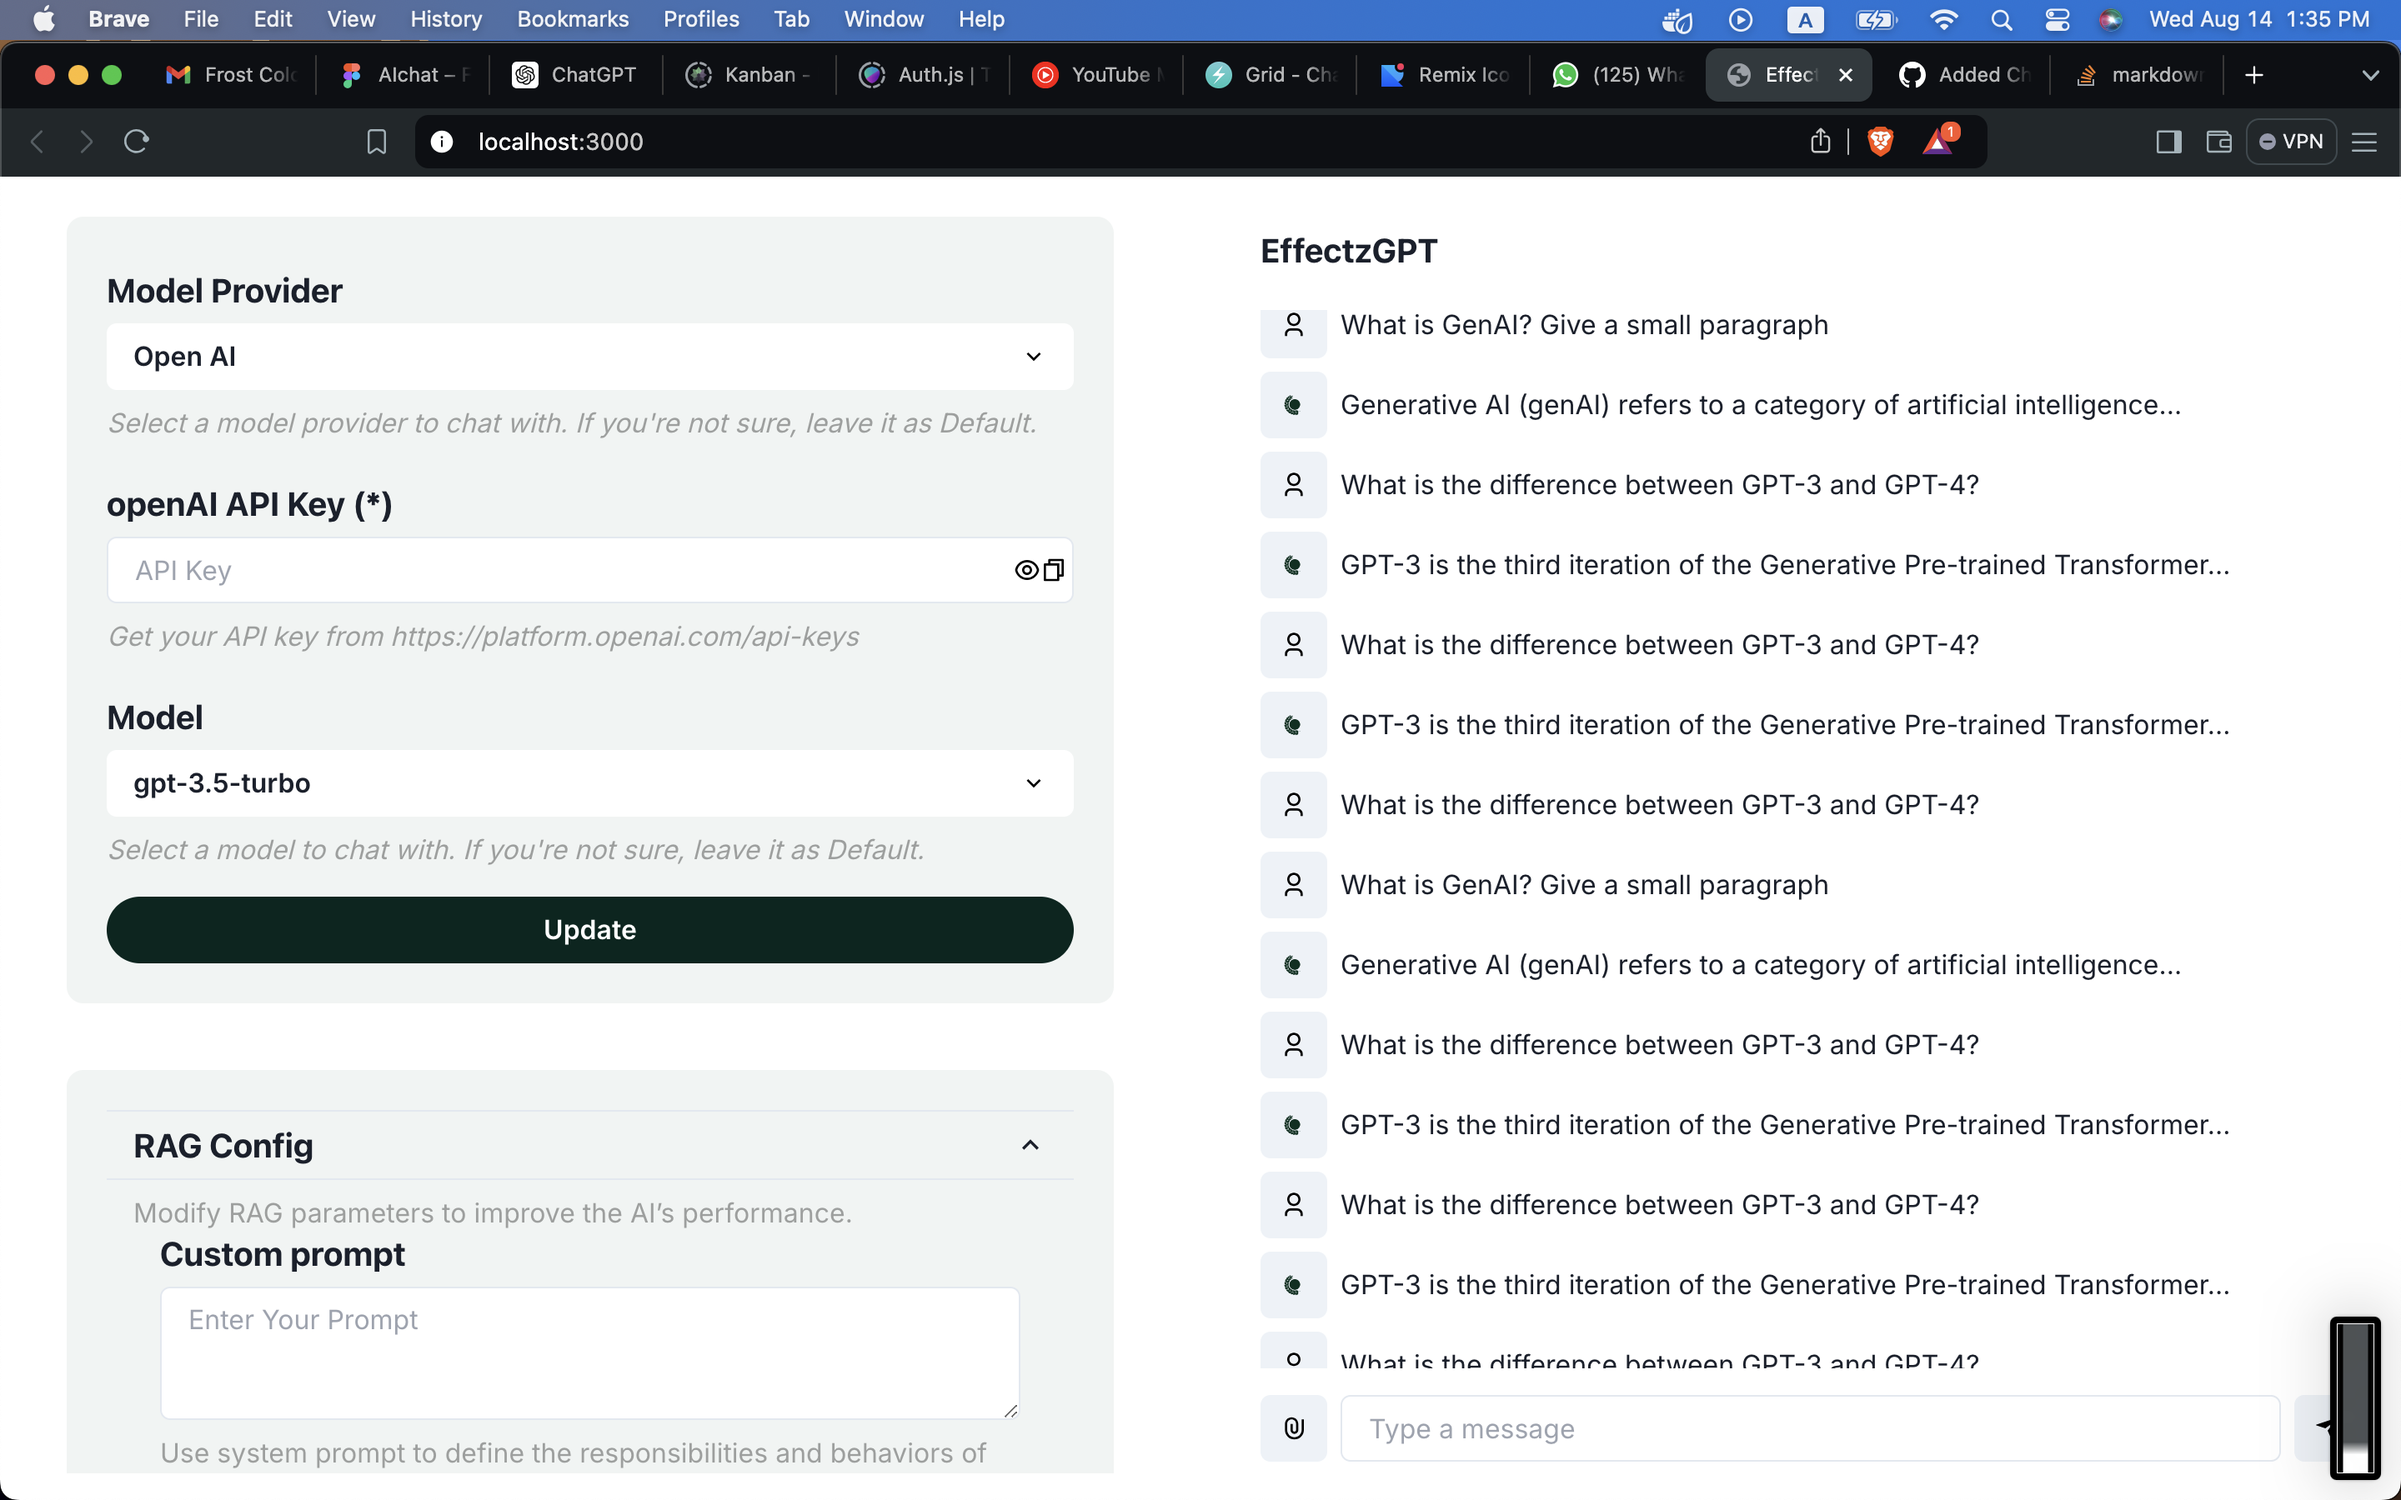
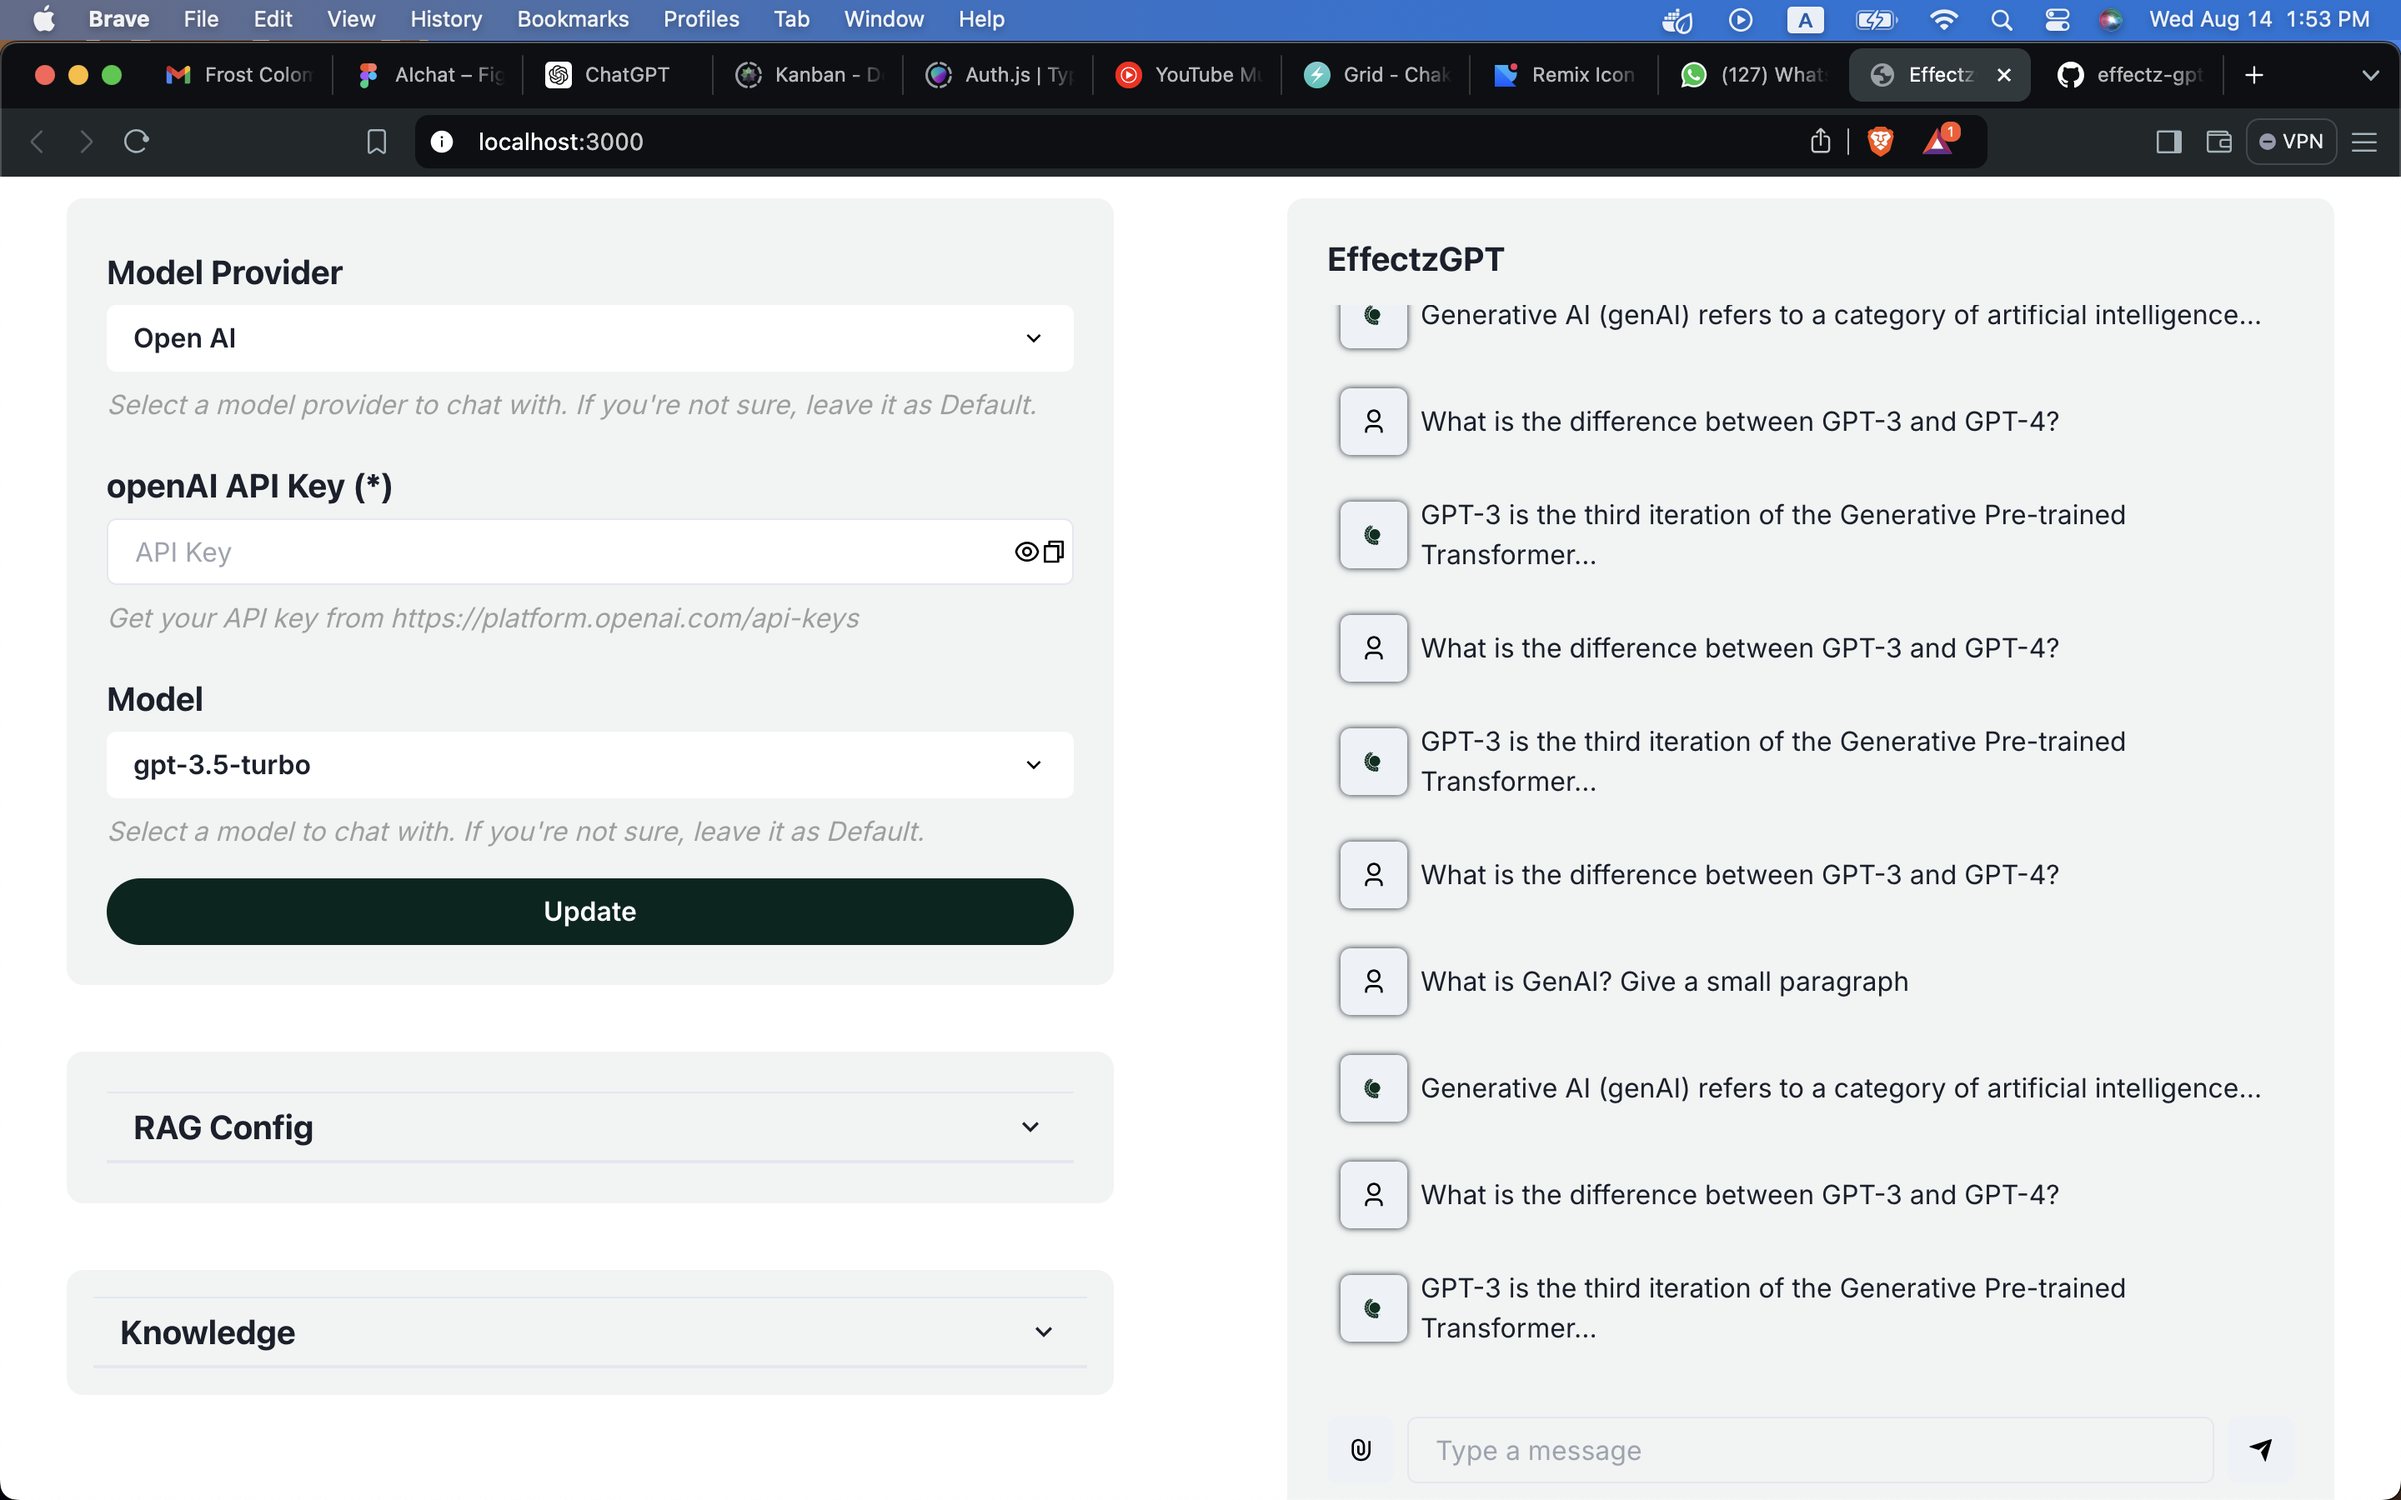
Updated README.md with UI Screenshot

diff --git a/effectzgpt/admin/src/components/ChatUi/index.tsx b/effectzgpt/admin/src/components/ChatUi/index.tsx
@@ -1,12 +1,14 @@
 'use client'
 
-import { Box } from "@chakra-ui/react"
+import { Box, BoxProps } from "@chakra-ui/react"
 import { ChatHeader } from "../ChatHeader"
 import { ChatList } from "../ChatList"
 import { ChatInput } from "../ChatInput"
-import { useState } from "react"
+import { FC, useState } from "react"
+import { BetterOmit } from "@/utils/BetterOmmit"
 
-export const ChatUi = () => {
+export type ChatUIProps = BetterOmit<BoxProps, 'children'>;
+export const ChatUi:FC<ChatUIProps> = ({...rest}) => {
     const [messages, setMessages] = useState([
         { id: 1, message: "What is GenAI? Give a small paragraph", isUser: true },
         { id: 2, message: "Generative AI (genAI) refers to a category of artificial intelligence...", isUser: false },
@@ -40,9 +42,9 @@ export const ChatUi = () => {
         setMessages([...messages, newMessage]);
       };
     return (
-            <Box p={6}>
+            <Box {...rest} bg='brand.100' rounded={10}>
                 <ChatHeader />
-                <ChatList messages={messages}/>
+                <ChatList py={4} messages={messages}/>
                 <ChatInput />
             </Box>
     )

diff --git a/effectzgpt/admin/src/components/ChatItem/index.tsx b/effectzgpt/admin/src/components/ChatItem/index.tsx
@@ -15,7 +15,8 @@ export const ChatItem:FC<ChatItemProps> = ({message,isUser,...rest}) => {
                     <HStack>
                         <IconButton
                             aria-label=""
-                            icon={<UserIcon />}
+                            icon={<UserIcon />}      
+                            boxShadow={'0 0 4px 0'}
                         />
                         <Text>{message}</Text>
                     </HStack>
@@ -26,6 +27,7 @@ export const ChatItem:FC<ChatItemProps> = ({message,isUser,...rest}) => {
                         <IconButton
                             aria-label=""
                             icon={<EffectzIcon />}
+                            boxShadow={'0 0 4px 0'}
                         />
                         <Text>{message}</Text>
                     </HStack>

diff --git a/effectzgpt/admin/src/components/ChatList/index.tsx b/effectzgpt/admin/src/components/ChatList/index.tsx
@@ -18,7 +18,7 @@ export const ChatList:FC<ChatListProps> = ({messages,...rest}) => {
             <VStack alignItems='flex-start' maxH='80vh' overflowY='scroll'>
                 {
                     messages.map((message) => (
-                        <ChatItem key={message.id} message={message.message} isUser={message.isUser} />
+                        <ChatItem p={2} key={message.id} message={message.message} isUser={message.isUser} />
                     ))
                 }
             </VStack>

diff --git a/effectzgpt/admin/src/components/ChatInput/index.tsx b/effectzgpt/admin/src/components/ChatInput/index.tsx
@@ -15,7 +15,6 @@ export const ChatInput:FC<ChatInputProps> = ({...rest}) => {
                 />
                 <Input
                     placeholder="Type a message"
-
                 />
                 <IconButton
                     aria-label="Send Message"

diff --git a/effectzgpt/admin/src/components/ChatHeader/index.tsx b/effectzgpt/admin/src/components/ChatHeader/index.tsx
@@ -2,7 +2,7 @@ import { Box, Heading } from "@chakra-ui/react"
 
 export const ChatHeader = () => {
     return(
-        <Box py={6}>
+        <Box>
             <Heading size='md'>
                 EffectzGPT
             </Heading>

diff --git a/effectzgpt/admin/src/app/page.tsx b/effectzgpt/admin/src/app/page.tsx
@@ -11,7 +11,7 @@ export default function Home() {
         <AdditionalApiKeys m={10} />
       </GridItem>
       <GridItem>
-        <ChatUi />
+        <ChatUi m={10} p={6}/>
       </GridItem>
     </SimpleGrid>
   );

diff --git a/effectzgpt/admin/README.md b/effectzgpt/admin/README.md
@@ -37,4 +37,4 @@ Check out our [Next.js deployment documentation](https://nextjs.org/docs/deploym
 
 # Admin UI
 
-![UI](https://github.com/effectz-ai/effectz-gpt/blob/feature/admin/effectzgpt/admin/admin_UI_v1.png)
+![UI](https://github.com/effectz-ai/effectz-gpt/blob/feature/admin/effectzgpt/admin/ADMIN_UI_V1.png)
